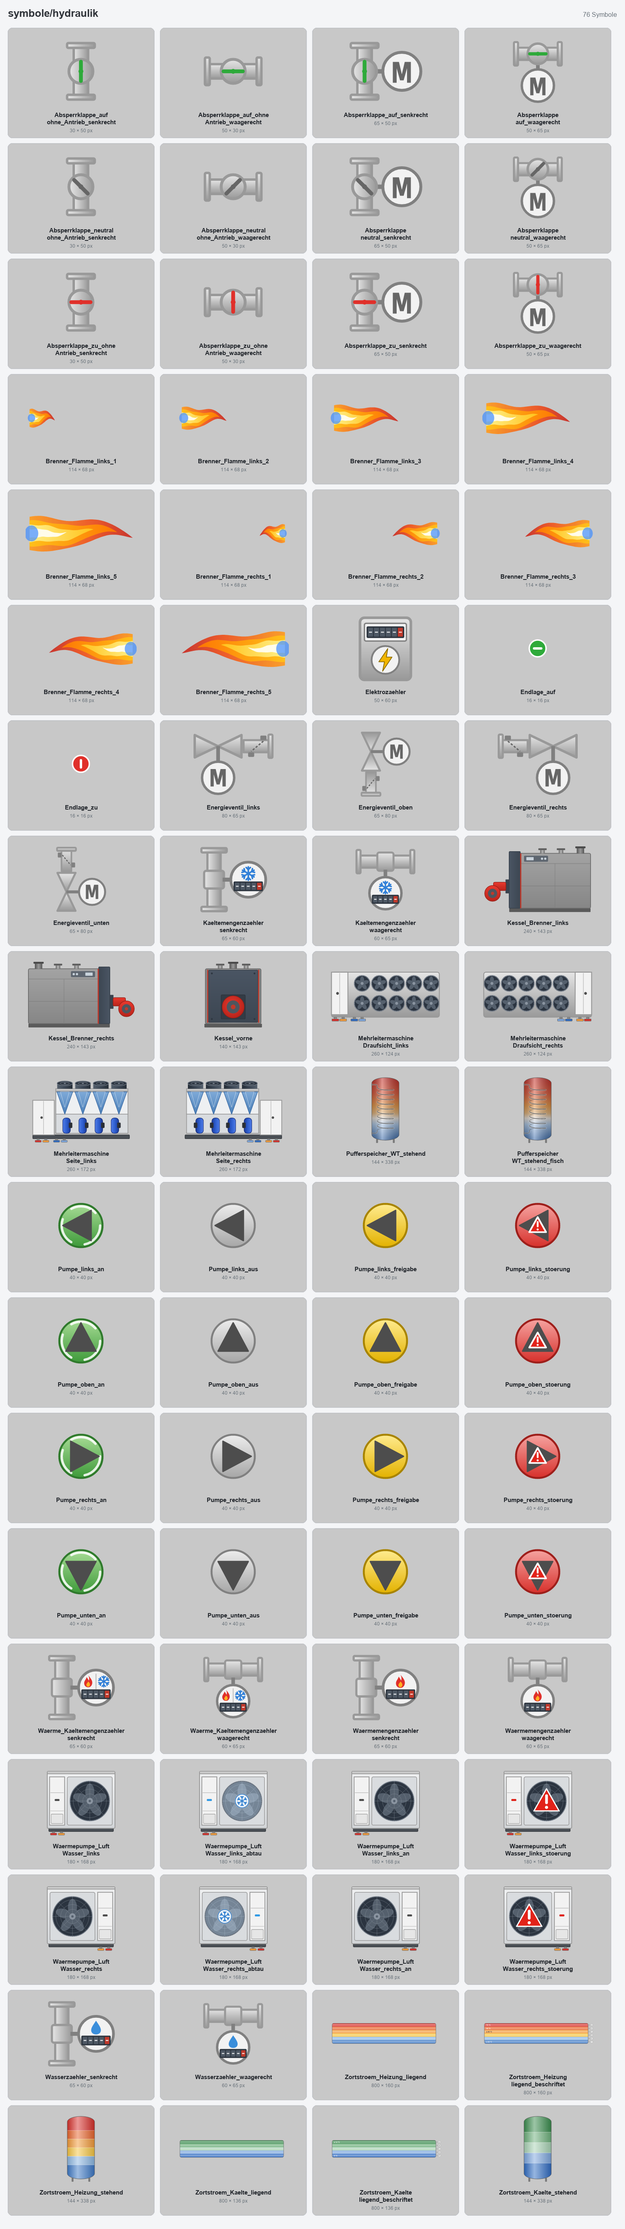
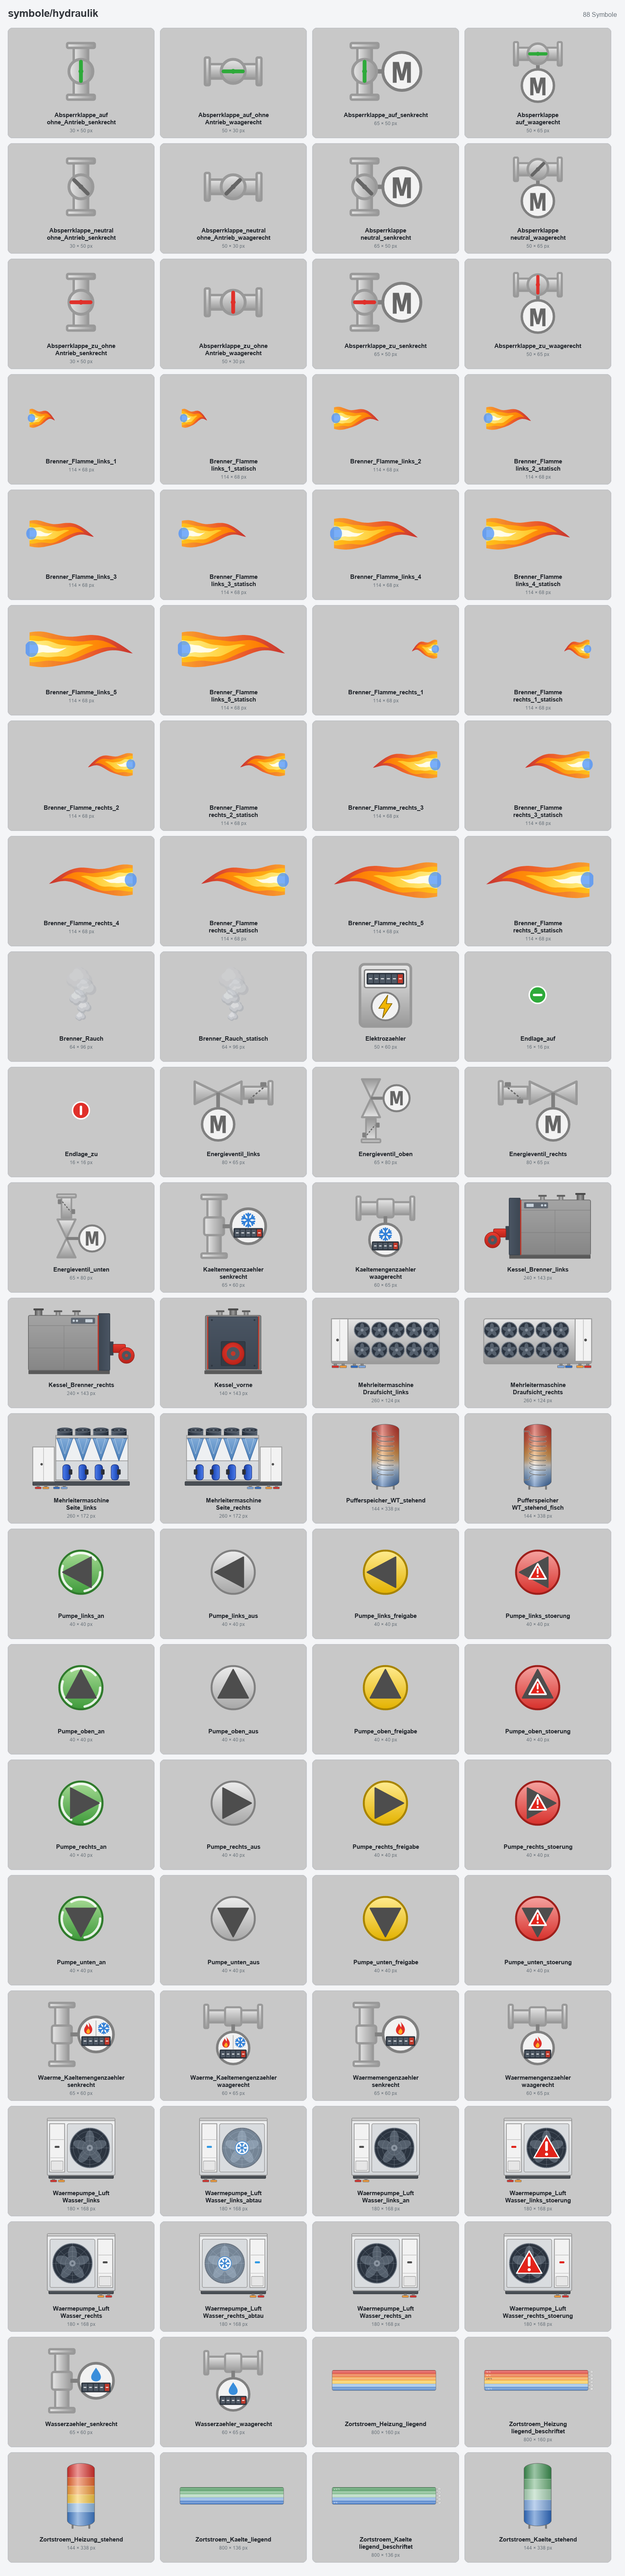
Brennerflamme und Rauch: Rauch am Kamin, statische Varianten (SVG + PNG)

Changed region(s): [[0.0308, 0.0, 0.9846, 0.9953], [0.4615, 0.8087, 0.4923, 0.8709], [0.2154, 0.8087, 0.2462, 0.8709]]

diff --git a/tools/rauch.py b/tools/rauch.py
@@ -1,0 +1,80 @@
+"""Erzeugt symbole/hydraulik/Brenner_Rauch.svg: animierter Rauch für den Kamin (Abgasstutzen) des Kessels.
+
+Ein Symbol für beide Kessel (Brenner links und rechts), transparenter Hintergrund, 64 × 96. Sechs weiche Rauchwolken
+steigen versetzt auf, wachsen, schwanken leicht und blenden aus (SMIL, nur Verläufe und Deckkraft). Ohne Animation
+sind die Wolken über die Aufstiegshöhe verteilt sichtbar.
+
+Zusätzlich `Brenner_Rauch_statisch` (SVG + PNG, ohne Animation, gleiche Größe) als Ausweichlösung.
+
+Position (linke obere Ecke des Rauch-Symbols relativ zur linken oberen Ecke des Kessel-Symbols 240 × 143):
+  Kessel_Brenner_links:  x = 180, y = -92   (Abgasstutzen bei x = 204 … 220, Oberkante y = 0)
+  Kessel_Brenner_rechts: x = -4,  y = -92   (Abgasstutzen bei x = 20 … 36)
+Die Mündung liegt im Symbol bei (32, 92). Aufruf: python tools/rauch.py [Zielordner]
+"""
+import math
+import re
+import sys
+from pathlib import Path
+
+ROOT = Path(__file__).resolve().parent.parent
+B, H = 64, 96
+MX, MY = 32, 92          # Mündung
+HUB = 84                 # Aufstieg in px
+ANZAHL = 6
+DAUER = 5.0
+PROBEN = 10
+
+
+def zustand(p: float, ph: float) -> tuple[float, float, float, float]:
+    """x, y, Maßstab, Deckkraft bei Zyklusanteil p (0…1)."""
+    x = 5 * math.sin(2 * math.pi * (1.2 * p + ph)) * min(1, p * 3)
+    y = -HUB * p
+    s = 0.45 + 1.55 * p
+    if p < 0.12:
+        o = 0.7 * p / 0.12
+    elif p < 0.55:
+        o = 0.7 - 0.12 * (p - 0.12) / 0.43
+    else:
+        o = 0.58 * (1 - (p - 0.55) / 0.45)
+    return x, y, s, max(0.0, o)
+
+
+def wolke(i: int) -> str:
+    p0 = i / ANZAHL
+    ph = (i * 0.37) % 1
+    x0, y0, s0, o0 = zustand(p0, ph)
+    # Zyklus beginnt bei p0: Verlauf ab p0 (modulo 1) über die volle Dauer, begin negativ → t=0 entspricht p0
+    ts = [k / PROBEN for k in range(PROBEN + 1)]
+    pos = ";".join(f"{zustand(t, ph)[0]:.1f} {zustand(t, ph)[1]:.1f}" for t in ts)
+    mas = ";".join(f"{zustand(t, ph)[2]:.2f}" for t in ts)
+    deck = ";".join(f"{zustand(t, ph)[3]:.2f}" for t in ts)
+    kt = ";".join(f"{t:.1f}" for t in ts)
+    beginn = f"{-p0 * DAUER:.2f}s"
+    kreise = [(0, 0, 7), (-5.5, 2, 5), (5.5, 1.5, 5.5), (0.5, -4.5, 5), (-2, 5, 4.5), (4, -3.5, 4)]
+    def gruppe(farbe, dx, dy, f):
+        return f'<g fill="{farbe}">' + "".join(f'<circle cx="{x * f + dx:.1f}" cy="{y * f + dy:.1f}" r="{r * f:.1f}"/>' for x, y, r in kreise) + "</g>"
+    # flach gefüllt, damit sich überlappende Kreise nicht abzeichnen: dunkle Basis, hellere Kuppe oben links
+    form = gruppe("#A9ADB3", 0.8, 1, 1) + gruppe("#C6CAD0", -0.4, -0.5, 0.88) + gruppe("#E2E4E8", -1.6, -2, 0.55)
+    return (f'    <g transform="translate({x0:.1f},{y0:.1f})"><animateTransform attributeName="transform" type="translate" values="{pos}" keyTimes="{kt}" dur="{DAUER}s" begin="{beginn}" repeatCount="indefinite"/>\n'
+            f'      <g transform="scale({s0:.2f})"><animateTransform attributeName="transform" type="scale" values="{mas}" keyTimes="{kt}" dur="{DAUER}s" begin="{beginn}" repeatCount="indefinite"/>\n'
+            f'        <g opacity="{o0:.2f}"><animate attributeName="opacity" values="{deck}" keyTimes="{kt}" dur="{DAUER}s" begin="{beginn}" repeatCount="indefinite"/>{form}</g></g></g>')
+
+
+def svg() -> str:
+    wolken = "\n".join(wolke(i) for i in range(ANZAHL))
+    return (f'<svg xmlns="http://www.w3.org/2000/svg" width="{B}" height="{H}" viewBox="0 0 {B} {H}">\n'
+            f'  <!-- Rauch für den Kamin: Mündung bei ({MX},{MY}) -->\n'
+            f'  <defs><radialGradient id="rg" cx="0.45" cy="0.4" r="0.7"><stop offset="0" stop-color="#E3E5E8"/><stop offset="0.6" stop-color="#B4B8BE"/><stop offset="1" stop-color="#8C9096"/></radialGradient></defs>\n'
+            f'  <g transform="translate({MX},{MY})">\n{wolken}\n  </g>\n</svg>\n')
+
+
+if __name__ == "__main__":
+    ziel = Path(sys.argv[1]) if len(sys.argv) > 1 else ROOT / "symbole" / "hydraulik"
+    import resvg_py
+    p = ziel / "Brenner_Rauch.svg"
+    p.write_text(svg(), encoding="utf-8")
+    print(p)
+    s = ziel / "Brenner_Rauch_statisch.svg"
+    s.write_text(re.sub(r"<animate(?:Transform)?\b[^>]*/>", "", svg()), encoding="utf-8")
+    s.with_suffix(".png").write_bytes(bytes(resvg_py.svg_to_bytes(svg_string=s.read_text(encoding="utf-8"))))
+    print(s)

diff --git a/tools/flamme.py b/tools/flamme.py
@@ -10,9 +10,12 @@ und Schwerpunkt per SMIL (animate d) unregelmäßig flackern. Keine Filter, nur 
 
 Position über dem Kessel (Koordinaten der Kessel-SVGs, Brenner links): Flammenwurzel an der Kesseltür bei
 x = 82, Brennermitte y = 113 − 27 = 86 im Bild. Das Symbol hat links einen Rand von RAND px.
+Zusätzlich je Flamme eine statische Variante `…_statisch` (SVG + PNG, ohne Animation, gleiche Größe) als
+Ausweichlösung, z. B. für Darstellungen ohne SMIL.
 Aufruf: python tools/flamme.py [Zielordner]
 """
 import math
+import re
 import sys
 from pathlib import Path
 
@@ -41,6 +44,11 @@ def schicht(L, h, amp, farbe, deckkraft, dauer, zungen, versatz=0.0) -> str:
     werte = ";".join(umriss(L, h, amp, p + versatz, zungen) for p in PHASEN)
     return (f'<path d="{umriss(L, h, amp, versatz, zungen)}" fill="{farbe}" opacity="{deckkraft}">'
             f'<animate attributeName="d" values="{werte}" dur="{dauer}s" repeatCount="indefinite"/></path>')
+
+
+def statisch(text: str) -> str:
+    """Entfernt alle SMIL-Animationen; die Flamme bleibt im Ausgangszustand stehen."""
+    return re.sub(r"<animate(?:Transform)?\b[^>]*/>", "", text)
 
 
 def svg(richtung: str, stufe: int) -> str:
@@ -74,9 +82,14 @@ def svg(richtung: str, stufe: int) -> str:
 
 
 if __name__ == "__main__":
+    import resvg_py
     ziel = Path(sys.argv[1]) if len(sys.argv) > 1 else ROOT / "symbole" / "hydraulik"
     for richtung in ("links", "rechts"):
         for stufe in LAENGEN:
             p = ziel / f"Brenner_Flamme_{richtung}_{stufe}.svg"
             p.write_text(svg(richtung, stufe), encoding="utf-8")
             print(p)
+            s = ziel / f"Brenner_Flamme_{richtung}_{stufe}_statisch.svg"
+            s.write_text(statisch(svg(richtung, stufe)), encoding="utf-8")
+            s.with_suffix(".png").write_bytes(bytes(resvg_py.svg_to_bytes(svg_string=s.read_text(encoding="utf-8"))))
+            print(s)

diff --git a/docs/SYMBOLKATALOG.md b/docs/SYMBOLKATALOG.md
@@ -90,7 +90,15 @@ Farben Kälte (oben → unten): `#3A8C4E`, `#6DB07B`, `#A8D2B4`, `#7CA6DE`, `#2E
 - Aufbau aus fünf Schichten (rot, orange, gelb, hell, blauer Ansatz), Umriss flackert per SMIL (`animate d`); nur Verläufe und Deckkraft, keine Filter.
 - `links`: Flamme zeigt nach rechts, über `Kessel_Brenner_links` legen; `rechts`: Flamme zeigt nach links, über `Kessel_Brenner_rechts`.
 - Position relativ zur linken oberen Ecke des Kessel-Symbols (240 × 143): `links` bei x = 78, y = 52; `rechts` bei x = 48, y = 52. Die Flammenwurzel liegt dann an der Kesseltür (x = 82 bzw. 158) auf Brennerhöhe (y = 86).
+- Statische Variante `Brenner_Flamme_{links,rechts}_{1..5}_statisch` (SVG + PNG, gleiche Größe, ohne Animation) als Ausweichlösung, wenn SMIL nicht dargestellt wird oder Ruhe gewünscht ist.
 - Erzeugt mit `tools/flamme.py`.
+
+### Brennerrauch (animiert, zum Überlegen)
+
+- `Brenner_Rauch`: 64 × 96, transparent, ein Symbol für beide Kessel. Sechs weiche graue Rauchwolken steigen versetzt vom Abgasstutzen auf, wachsen, schwanken leicht und blenden aus (SMIL, keine Filter). Zusammen mit der Flamme bei „Brenner an“ einblenden.
+- Statische Variante `Brenner_Rauch_statisch` (SVG + PNG, gleiche Größe, Wolken über die Aufstiegshöhe verteilt).
+- Position relativ zur linken oberen Ecke des Kessel-Symbols (240 × 143): `Kessel_Brenner_links` bei x = 180, y = −92; `Kessel_Brenner_rechts` bei x = −4, y = −92. Die Mündung liegt im Symbol bei (32, 92), der Rauch ragt über die Oberkante des Kessels hinaus.
+- Erzeugt mit `tools/rauch.py`.
 
 ### Mehrleitermaschine (luftgekühlt, Monoblock)
 

diff --git a/README.md b/README.md
@@ -24,7 +24,8 @@ docs/
 tools/
   check_symbols.py       Prüft SVGs auf Regeln (kein <text>, Namensschema, PNG vorhanden)
   pumpe.py               Erzeugt die Pumpensymbole unter symbole/hydraulik/
-  flamme.py              Erzeugt die Brennerflammen unter symbole/hydraulik/ (animiert, zum Überlegen)
+  rauch.py               Erzeugt den Brennerrauch unter symbole/hydraulik/ (animiert + statisch)
+  flamme.py              Erzeugt die Brennerflammen unter symbole/hydraulik/ (animiert + statisch)
   fun_pumpe.py           Erzeugt die Fun-Pumpen unter symbole/fun/ (baut auf pumpe.py auf)
   waermepumpe.py         Erzeugt die Wärmepumpen-Symbole unter symbole/hydraulik/ (resvg-py)
   klappen.py             Erzeugt die Klappensymbole unter symbole/lueftung/klappen/{klein,gross}/ (resvg-py)
